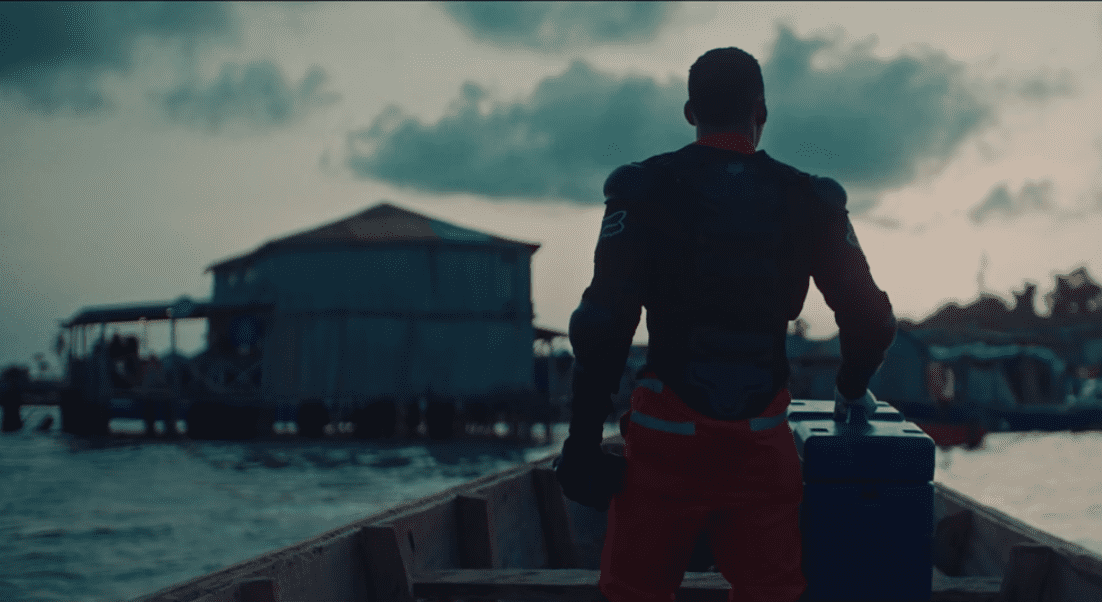
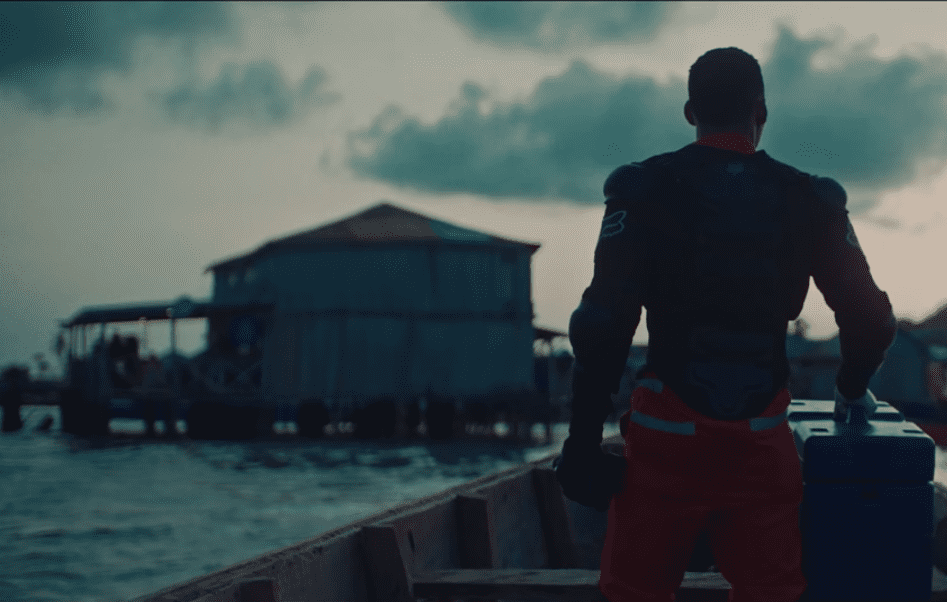
partner and people background image adjusted

diff --git a/src/app/home/home.component.scss b/src/app/home/home.component.scss
@@ -1132,6 +1132,13 @@
       line-height: 23px;
     }
   }
+  .people {
+    // background :linear-gradient(to right top,rgba(0,0,0,0.7),rgba(255, 254, 254, 0.2)),url(../../assets/images/mobile.png);
+    background-position: right;
+  }
+  .partner {
+    background-position: right;
+  }
 }
 
 
